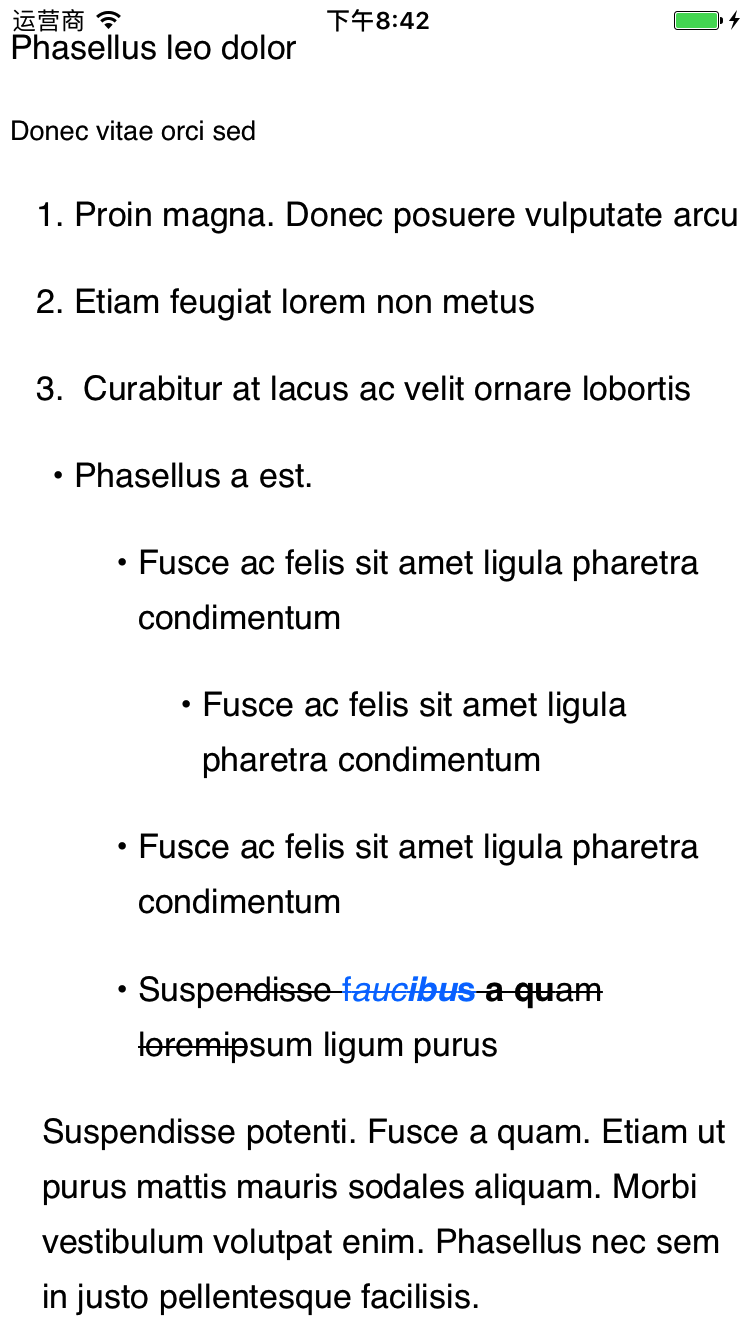
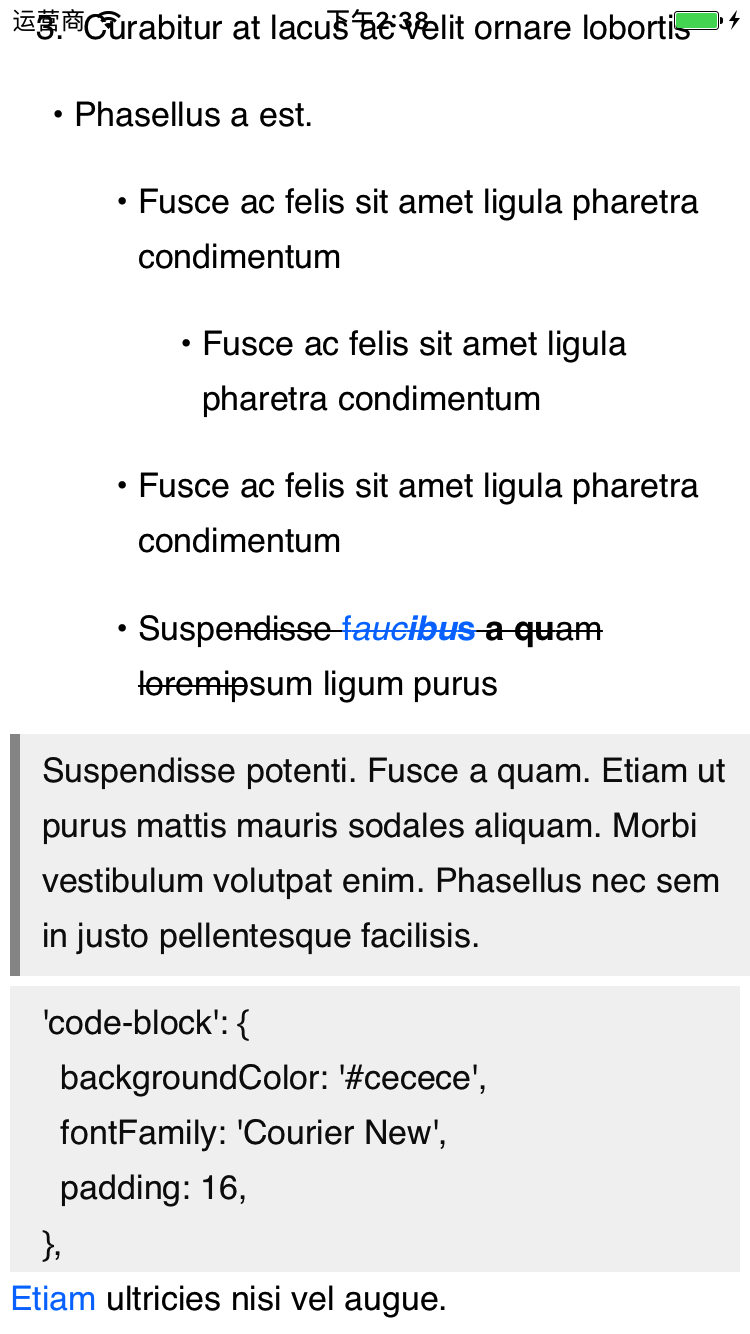
Add support to Code Quote & Block Quote

diff --git a/DraftDemo/JHDraftTextView/JHDraftTextView.m b/DraftDemo/JHDraftTextView/JHDraftTextView.m
@@ -12,6 +12,7 @@
 @interface JHDraftTextView () <JHDraftParserDelegate>
 
 @property (nonatomic, strong) JHDraftParser *parser;
+@property (nonatomic, strong) NSMutableArray<CALayer *> *drawLayers;
 
 @end
 
@@ -21,21 +22,17 @@
 
 - (instancetype)initWithFrame:(CGRect)frame {
     if (self = [super initWithFrame:frame]) {
-        [self setup];
+        
     }
     
     return self;
-}
-
-- (void)setup {
-    self.editable = NO;
-    self.selectable = NO;
 }
 
 #pragma mark - Public Methods
 
 - (void)setAttributedTextWithDraftJsonDic:(NSDictionary *)jsonDic {
     self.attributedText = [self.parser attributedStringWithDraftJsonDic:jsonDic];
+    [self _performDrawTasks:self.parser.parserDrawTasks];
 }
 
 - (NSString *)wordAtPoint:(CGPoint)point {
@@ -81,9 +78,57 @@
 
 #pragma mark - Private Methods
 
+- (void)_performDrawTasks:(NSArray<JHParserDrawTask *> *)drawTasks {
+    if (!drawTasks&&drawTasks.count==0) {
+        return;
+    }
+
+    for (CALayer *layers in self.drawLayers) {
+        [layers removeFromSuperlayer];
+    }
+    
+    for (JHParserDrawTask *task in drawTasks) {
+        CGRect firstLineRect = [self.layoutManager lineFragmentRectForGlyphAtIndex:task.fisrtIndex effectiveRange:nil];
+        CGRect lastLineRect = [self.layoutManager lineFragmentRectForGlyphAtIndex:task.lastIndex effectiveRange:nil];
+        CGRect scaleRect = CGRectMake(CGRectGetMinX(firstLineRect), CGRectGetMinY(firstLineRect), CGRectGetWidth(firstLineRect), CGRectGetMaxY(lastLineRect)-CGRectGetMinY(firstLineRect));
+        switch (task.type) {
+            case JHDraftTextTypeCodeQuote:
+            {
+                CGRect quoteBackground = CGRectMake(scaleRect.origin.x+5, scaleRect.origin.y, CGRectGetWidth(scaleRect)-5*2, scaleRect.size.height+5);
+                CALayer *quoteBackgroundLayer = [[CALayer alloc] init];
+                quoteBackgroundLayer.backgroundColor = [UIColor colorWithWhite:0.5 alpha:0.1].CGColor;
+                quoteBackgroundLayer.frame = quoteBackground;
+                [self.layer insertSublayer:quoteBackgroundLayer atIndex:(unsigned)self.layer.sublayers.count];
+                
+                [self.drawLayers addObject:quoteBackgroundLayer];
+            }
+                break;
+            case JHDraftTextTypeBlockQuote:
+            {
+                CGRect quoteLine = CGRectMake(scaleRect.origin.x+5, scaleRect.origin.y, 5, scaleRect.size.height-5);
+                CALayer *quoteLineLayer = [[CALayer alloc] init];
+                quoteLineLayer.backgroundColor = [UIColor colorWithWhite:0.2 alpha:0.5].CGColor;
+                quoteLineLayer.frame = quoteLine;
+                [self.layer insertSublayer:quoteLineLayer atIndex:(unsigned)self.layer.sublayers.count];
+                [self.drawLayers addObject:quoteLineLayer];
+                
+                CGRect quoteBackground = CGRectMake(scaleRect.origin.x+5, scaleRect.origin.y, CGRectGetWidth(scaleRect)-5, scaleRect.size.height-5);
+                CALayer *quoteBackgroundLayer = [[CALayer alloc] init];
+                quoteBackgroundLayer.backgroundColor = [UIColor colorWithWhite:0.5 alpha:0.1].CGColor;
+                quoteBackgroundLayer.frame = quoteBackground;
+                [self.layer insertSublayer:quoteBackgroundLayer atIndex:(unsigned)self.layer.sublayers.count];
+                [self.drawLayers addObject:quoteBackgroundLayer];
+            }
+                break;
+                
+            default:
+                break;
+        }
+    }
+}
+
 - (NSUInteger)_charIndexAtPoint:(CGPoint)point {
     NSLayoutManager *layoutManager = self.layoutManager;
-    NSTextStorage *textStorage = layoutManager.textStorage;
     NSTextContainer *textContainer = self.textContainer;
     
     // to best fits the hit point
@@ -120,6 +165,14 @@
     }
     
     return _parser;
+}
+
+- (NSMutableArray<CALayer *> *)drawLayers {
+    if (!_drawLayers) {
+        _drawLayers = [[NSMutableArray alloc] initWithCapacity:0];
+    }
+    
+    return _drawLayers;
 }
 
 @end

diff --git a/DraftDemo/JHDraftTextView/JHDraftParser.m b/DraftDemo/JHDraftTextView/JHDraftParser.m
@@ -7,12 +7,12 @@
 //
 
 #import "JHDraftParser.h"
-#import "JHDraftDataSource.h"
 
 #import <SDWebImage/SDWebImageManager.h>
 
 @interface JHDraftParser ()
 @property (nonatomic, strong) NSMutableAttributedString *mutableAttrStr;
+@property (nonatomic, strong) NSMutableArray<JHParserDrawTask *> *drawTasks;
 @end
 
 @implementation JHDraftParser
@@ -24,6 +24,10 @@
     NSArray<JHDraftBlock *> *blocks = [JHDraftDataSource blocksFromJsonDic:jsonDic];
     
     return [self _attributeStringWithBlocks:blocks entityMap:entityMap];
+}
+
+- (NSArray<JHParserDrawTask *> *)parserDrawTasks {
+    return [self.drawTasks copy];
 }
 
 #pragma mark - Private Methods
@@ -113,14 +117,25 @@
             paragraph.lineSpacing = 8;
             paragraph.paragraphSpacing = 16;
             paragraph.alignment = NSTextAlignmentLeft;
+            JHParserDrawTask *drawTask = [[JHParserDrawTask alloc] init];
+            drawTask.type = JHDraftTextTypeBlockQuote;
+            drawTask.fisrtIndex = _mutableAttrStr.length+1;
+            drawTask.lastIndex = drawTask.fisrtIndex + attrStr.length - 1;
+            [self.drawTasks addObject:drawTask];
         }
             break;
         case JHDraftTextTypeCodeQuote:
         {
-            paragraph.headIndent = 8;
-            paragraph.lineSpacing = 0;
+            paragraph.headIndent = 16;
+            paragraph.firstLineHeadIndent = 16;
+            paragraph.lineSpacing = 8;
             paragraph.paragraphSpacing = 0;
             paragraph.alignment = NSTextAlignmentLeft;
+            JHParserDrawTask *drawTask = [[JHParserDrawTask alloc] init];
+            drawTask.type = JHDraftTextTypeCodeQuote;
+            drawTask.fisrtIndex = _mutableAttrStr.length+1;
+            drawTask.lastIndex = drawTask.fisrtIndex + attrStr.length - 1;
+            [self.drawTasks addObject:drawTask];
         }
             break;
         case JHDraftTextTypeOrderListItem:
@@ -211,5 +226,17 @@
     }
     return [_mutableAttrStr copy];
 }
+
+- (NSMutableArray<JHParserDrawTask *> *)drawTasks {
+    if (!_drawTasks) {
+        _drawTasks = [[NSMutableArray alloc] initWithCapacity:0];
+    }
+    
+    return _drawTasks;
+}
+
+@end
+
+@implementation JHParserDrawTask
 
 @end

diff --git a/DraftDemo/JHDraftTextView/JHDraftParser.h b/DraftDemo/JHDraftTextView/JHDraftParser.h
@@ -9,10 +9,20 @@
 #import <Foundation/Foundation.h>
 #import <UIKit/UIKit.h>
 
+#import "JHDraftDataSource.h"
+
 @protocol JHDraftParserDelegate <NSObject>
 
-@optional
+@required
 - (void)didUpdateAttributeText;
+
+@end
+
+@interface JHParserDrawTask : NSObject
+
+@property (nonatomic, assign) JHDraftTextType type;
+@property (nonatomic, assign) NSUInteger fisrtIndex;
+@property (nonatomic, assign) NSUInteger lastIndex;
 
 @end
 
@@ -22,5 +32,6 @@
 
 - (NSAttributedString *)attributeString;
 - (NSAttributedString *)attributedStringWithDraftJsonDic:(NSDictionary *)jsonDic;
+- (NSArray<JHParserDrawTask *> *)parserDrawTasks;
 
 @end

diff --git a/DraftDemo/ViewController.m b/DraftDemo/ViewController.m
@@ -36,7 +36,12 @@
     
     _draftView = [[JHDraftTextView alloc] initWithFrame:self.view.frame];
     [_draftView setAttributedTextWithDraftJsonDic:jsonDic];
+    _draftView.editable = NO;
     [self.view addSubview:_draftView];
+}
+
+- (void)viewWillLayoutSubviews {
+    _draftView.frame = self.view.bounds;
 }
 
 - (void)handleTap:(UITapGestureRecognizer*)tapRecognizer {

diff --git a/README.md b/README.md
@@ -13,8 +13,14 @@ a subclass of UITextView to parse Draft.js json to rich text
 * [Link](https://github.com/JiaHongXu)
 * **Bold**, *Italic*, ***Bold+Italic***
 * ~~Stroke Through~~
-* Code Quote (e…doing)
-* Block Quote (e…doing)
+* Code Quote 
+* Block Quote 
+
+## Problems Remain
+
+The method I applied to draw code quote & block quote may lead to display problems while changing the screens orientation
+
+If you have better solution, mail me please. ^_^ at [xjh\_28@163.com](xjh\_28@163.com)
 
 ## Run
 
